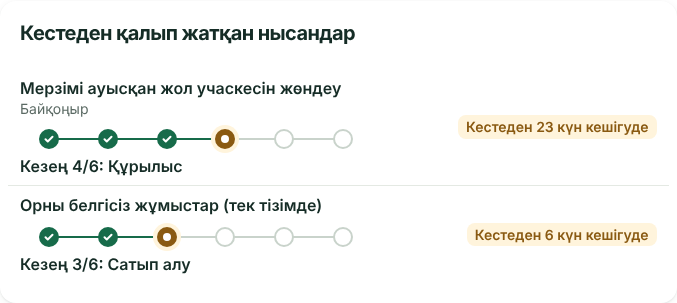
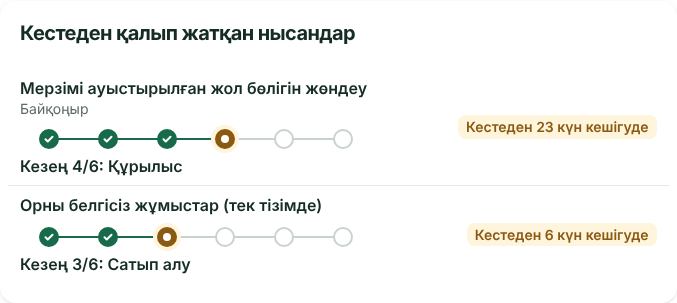
R06 r14 night round 5: Kazakh demo titles of the build set from R11 KK_REVIEW (section 3)
- demo-astana-* title_kk as proposed by R11 («Мерзімі ауыстырылған жол бөлігін жөндеу», «шартты аумақ», «бөлік»
  instead of «учаске»); app day summary in kk on R01 daec72a + R06 paths 7/7.

Claude-Session: https://claude.ai/code/session_01GsNWTNp2VBMSksDcTnmS4P

Changed region(s): [[0.1861, 0.2673, 0.5583, 0.3267]]

diff --git a/ui/civic_store/stages.py b/ui/civic_store/stages.py
@@ -45,20 +45,20 @@ MAX_OBJECTS = 1000  # публичный список: Астана — сотн
 #  - data/civic/astana/demo_synthetic.json (seed-demo --package …, так засевает сборка R01 при CIVIC_DEMO=1;
 #    данные координатора — их названия «Демо: …» не меняем, перевод даём здесь, без слова «Демо»).
 # Настоящие записи civic-v1 одноязычные: у них title_kk = None, интерфейс показывает title с lang="ru".
-# Черновик R06 — на вычитку R11 (KK_REVIEW).
+# demo-astana-* — по KK_REVIEW R11 (раздел 3, «названия демо-записей»); demo-r02-* — черновик R06 на вычитку R11.
 DEMO_TITLES_KK = {
     "demo-r02-sidewalk-delay": "Тротуарды жөндеу",
     "demo-r02-yard-landscaping": "Ауланы абаттандыру",
     "demo-r02-event-no-geometry": "Нақты орны көрсетілмеген қалалық іс-шара",
     "demo-astana-archived": "Мұрағаттағы іс-шара",
     "demo-astana-construction-unknown": "Мәртебесі белгісіз құрылыс",
-    "demo-astana-draft-hidden": "Тұрғындарға көрінбейтін жоба нұсқасы",
-    "demo-astana-event-weekend": "Демалыс күндердегі қалалық іс-шара",
-    "demo-astana-landscaping-yard": "Ауланы абаттандыру (шартты учаске)",
+    "demo-astana-draft-hidden": "Тұрғындардан жасырылған қаралама",
+    "demo-astana-event-weekend": "Демалыс күнгі қалалық іс-шара",
+    "demo-astana-landscaping-yard": "Ауланы абаттандыру (шартты аумақ)",
     "demo-astana-list-only": "Орны белгісіз жұмыстар (тек тізімде)",
-    "demo-astana-roadworks-cancelled": "Күші жойылған жол жабу",
+    "demo-astana-roadworks-cancelled": "Болдырылмаған өтпе жолды жабу",
     "demo-astana-roadworks-completed": "Аяқталған тротуар жөндеуі",
-    "demo-astana-roadworks-delay": "Мерзімі ауысқан жол учаскесін жөндеу",
+    "demo-astana-roadworks-delay": "Мерзімі ауыстырылған жол бөлігін жөндеу",
 }
 
 
